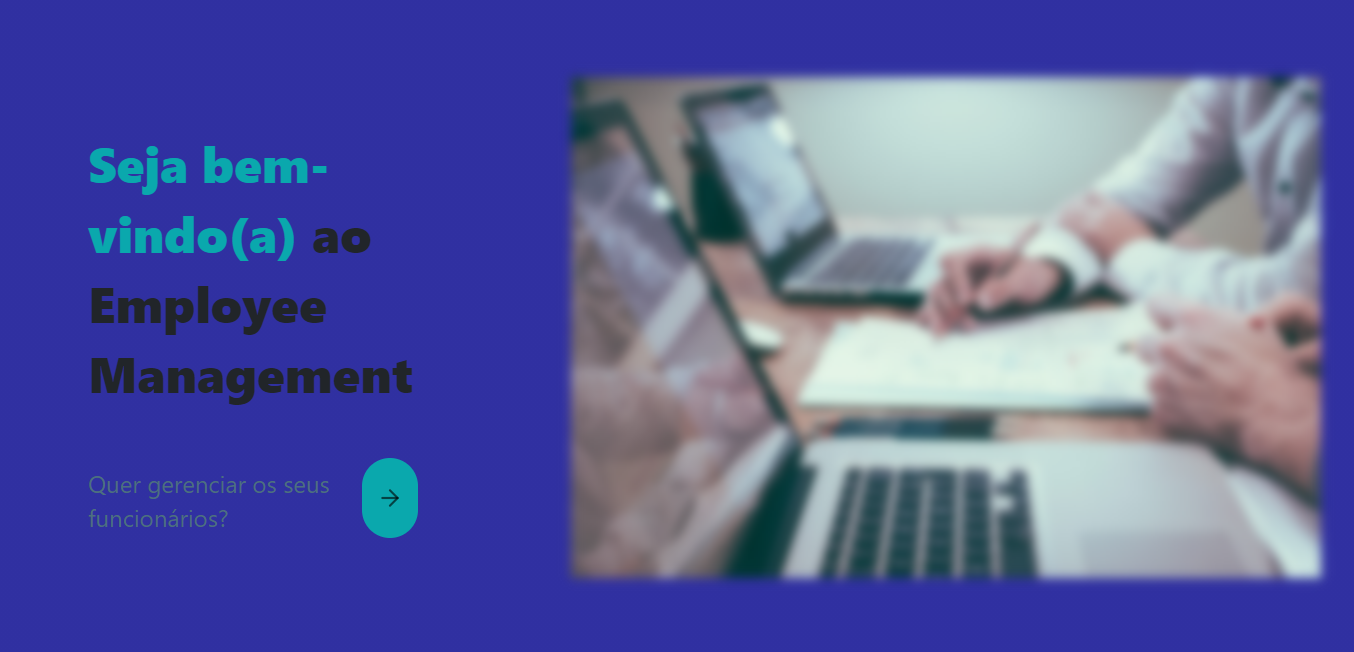
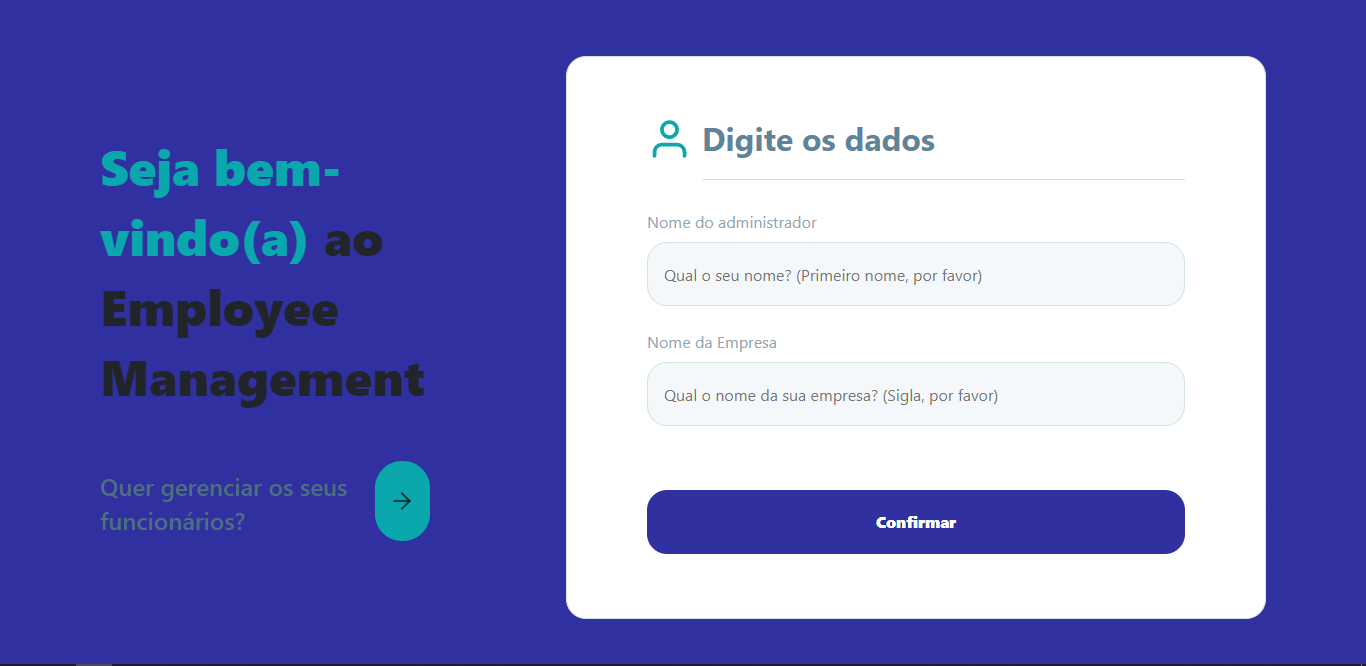
✅ Finishing the readme

diff --git a/web/src/pages/Landing/index.tsx b/web/src/pages/Landing/index.tsx
@@ -1,10 +1,8 @@
-import React, { FormEvent, useEffect, useState } from "react";
+import React, { FormEvent, useState } from "react";
 import { FiArrowRight, FiUser } from "react-icons/fi";
-import { Link, useHistory } from "react-router-dom";
+import { useHistory } from "react-router-dom";
 
 import "./styles.css";
-
-import planning from "../../images/landing.jpg";
 
 function Landing() {
   const history = useHistory();
@@ -52,11 +50,11 @@ function Landing() {
                   id="employee-icon-edit"
                   style={{ marginTop: -7, marginRight: 10 }}
                 />
-                <legend>Digite os dados da sua empresa</legend>
+                <legend>Digite os dados</legend>
               </div>
 
               <div className="input-block" style={{ marginTop: -30 }}>
-                <label htmlFor="name">Nome</label>
+                <label htmlFor="name">Nome do administrador</label>
                 <input
                   id="name"
                   placeholder="Qual o seu nome? (Primeiro nome, por favor)"
@@ -66,7 +64,7 @@ function Landing() {
                 />
               </div>
               <div className="input-block">
-                <label htmlFor="name">Empresa</label>
+                <label htmlFor="name">Nome da Empresa</label>
                 <input
                   id="company"
                   placeholder="Qual o nome da sua empresa? (Sigla, por favor)"

diff --git a/web/src/pages/Employee/EditEmployee/index.tsx b/web/src/pages/Employee/EditEmployee/index.tsx
@@ -1,5 +1,4 @@
 import React, { FormEvent, useEffect, useState } from "react";
-import { FiUser } from "react-icons/fi";
 import { BsFillPersonLinesFill } from "react-icons/bs";
 import { useHistory, useParams } from "react-router-dom";
 
@@ -7,6 +6,7 @@ import Sidebar from "../../../components/Sidebar";
 import api from "../../../services/api";
 
 import "./styles.css";
+import Loading from "../../../components/Loading";
 
 interface Employee {
   id: number;
@@ -51,7 +51,7 @@ export default function EditEmployee() {
   }, [params.id]);
 
   if (!employee) {
-    return <p>Carregando ...</p>;
+    return <Loading />;
   }
 
   async function handleSubmit(event: FormEvent) {

diff --git a/web/src/pages/Role/EditRole/index.tsx b/web/src/pages/Role/EditRole/index.tsx
@@ -1,6 +1,7 @@
 import React, { FormEvent, useEffect, useState } from "react";
 import { FiFileText } from "react-icons/fi";
 import { useHistory, useParams } from "react-router-dom";
+import Loading from "../../../components/Loading";
 
 import Sidebar from "../../../components/Sidebar";
 import api from "../../../services/api";
@@ -32,7 +33,7 @@ export default function EditRole() {
   }, [params.id]);
 
   if (!role) {
-    return <p>Carregando ...</p>;
+    return <Loading />;
   }
 
   async function handleSubmit(event: FormEvent) {

diff --git a/web/src/pages/Role/RoleDetails/index.tsx b/web/src/pages/Role/RoleDetails/index.tsx
@@ -1,6 +1,7 @@
 import React, { FormEvent, useEffect, useState } from "react";
 import { FiFileText } from "react-icons/fi";
 import { useHistory, useParams } from "react-router-dom";
+import Loading from "../../../components/Loading";
 
 import Sidebar from "../../../components/Sidebar";
 import api from "../../../services/api";
@@ -29,7 +30,7 @@ export default function RoleDetails() {
   }, []);
 
   if (!role) {
-    return <p>Carregando ...</p>;
+    return <Loading />;
   }
   return (
     <div id="page-create-role">

diff --git a/web/src/pages/Role/ListAllRoles/index.tsx b/web/src/pages/Role/ListAllRoles/index.tsx
@@ -1,15 +1,13 @@
 import React, { useEffect, useState } from "react";
 import {
-  FiArrowRight,
   FiBriefcase,
   FiEdit2,
   FiHome,
-  FiPaperclip,
   FiPlus,
   FiTrash,
   FiUser,
 } from "react-icons/fi";
-import { Link, useHistory } from "react-router-dom";
+import { useHistory } from "react-router-dom";
 import Loading from "../../../components/Loading";
 import Sidebar from "../../../components/Sidebar";
 

diff --git a/web/src/pages/Employee/ListAllEmployees/index.tsx b/web/src/pages/Employee/ListAllEmployees/index.tsx
@@ -7,14 +7,11 @@ import "./styles.css";
 import Sidebar from "../../../components/Sidebar";
 import api from "../../../services/api";
 import {
-  FiBriefcase,
   FiEdit2,
-  FiFile,
   FiPlus,
   FiTrash,
   FiUsers,
   FiUser,
-  FiPaperclip,
   FiHome,
 } from "react-icons/fi";
 import Loading from "../../../components/Loading";

diff --git a/README.MD b/README.MD
@@ -52,6 +52,14 @@
    <img src="./.github/screenshot02.png" />
 </p>
 
+<p align="center">
+   <img src="./.github/screenshot03.png" />
+</p>
+
+<p align="center">
+   <img src="./.github/screenshot04.png" />
+</p>
+
 # 🔨 Tecnologias
 
 Este projeto foi feito usando as seguintes tecnologias:
@@ -60,7 +68,6 @@ Frontend
 
 - [React](https://reactnative.dev/)
 - [React Router DOM](https://styled-components.com)
-- [React Router DOM](https://styled-components.com)
 - [Typescript](https://www.typescriptlang.org)
 - [ESLint](https://www.npmjs.com/package/eslint)
 - [Prettier](https://www.npmjs.com/package/eslint)
@@ -68,13 +75,13 @@ Frontend
 
 Backend
 
-- [NodeJS]()
-- [EmpressJS]()
-- [TypeScript]()
-- [TypeORM]()
-- [SQLite3]()
-- [Yup]()
-- [Moment]()
+- [NodeJS](https://nodejs.org/en/)
+- [EmpressJS](https://expressjs.com/)
+- [Typescript](https://www.typescriptlang.org)
+- [TypeORM](https://typeorm.io/)
+- [SQLite3](https://www.sqlitetutorial.net/sqlite-nodejs/)
+- [Yup](https://github.com/jquense/yup)
+- [Moment](https://momentjs.com/)
 
 # 💻 How to run
 
@@ -94,7 +101,7 @@ $ yarn server
 # PS: IMPORTANTE ABRIR OUTRO TERMINAL PARA RODAR A APLICAÇÃO WEB
 
 # Volte um diretório
-$ ../
+$ cd ../
 
 # Entre no diretório da aplicação web
 $ cd web/
